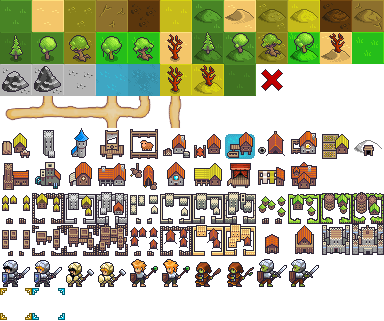
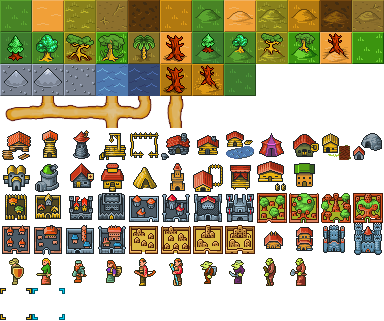
Unhide

diff --git a/hidden/map/js/draw-map.js b/hidden/map/js/draw-map.js
@@ -104,7 +104,7 @@ processRegionResponse(response, "map");
     sprites = [];
     var loadSprites = 0;
     var sprite = new Image();
-    sprite.src = "./images/map.png";
+    sprite.src = "./images/map_ressurect_anim.png";
     sprite.mapType = map;
     sprite.addEventListener('load', function() {
         loadSprites++;
